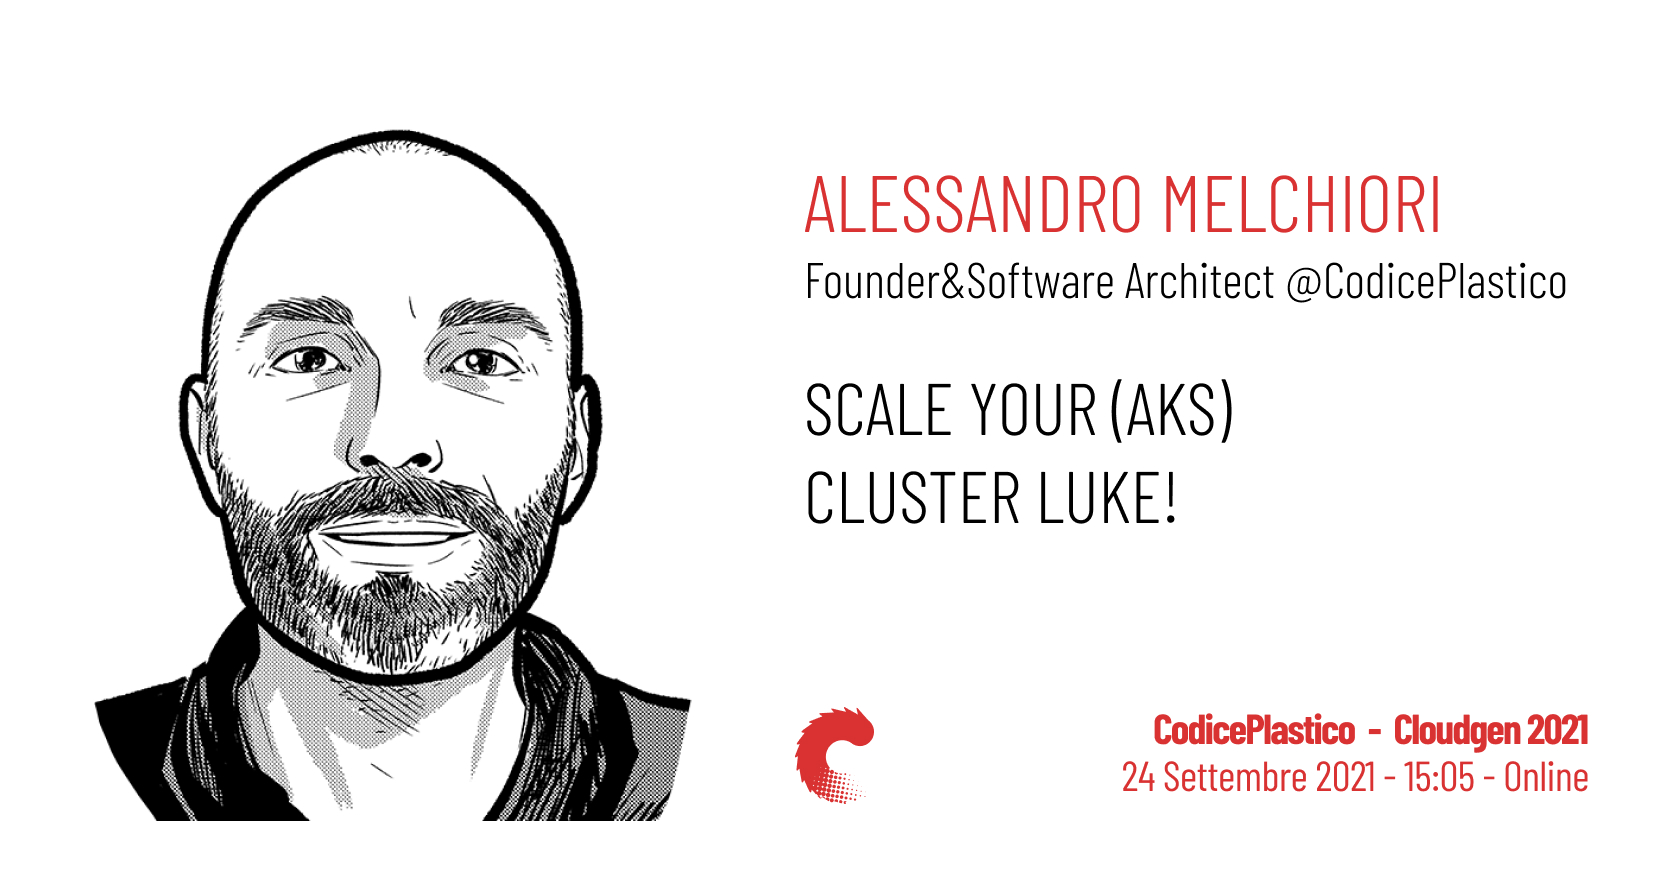
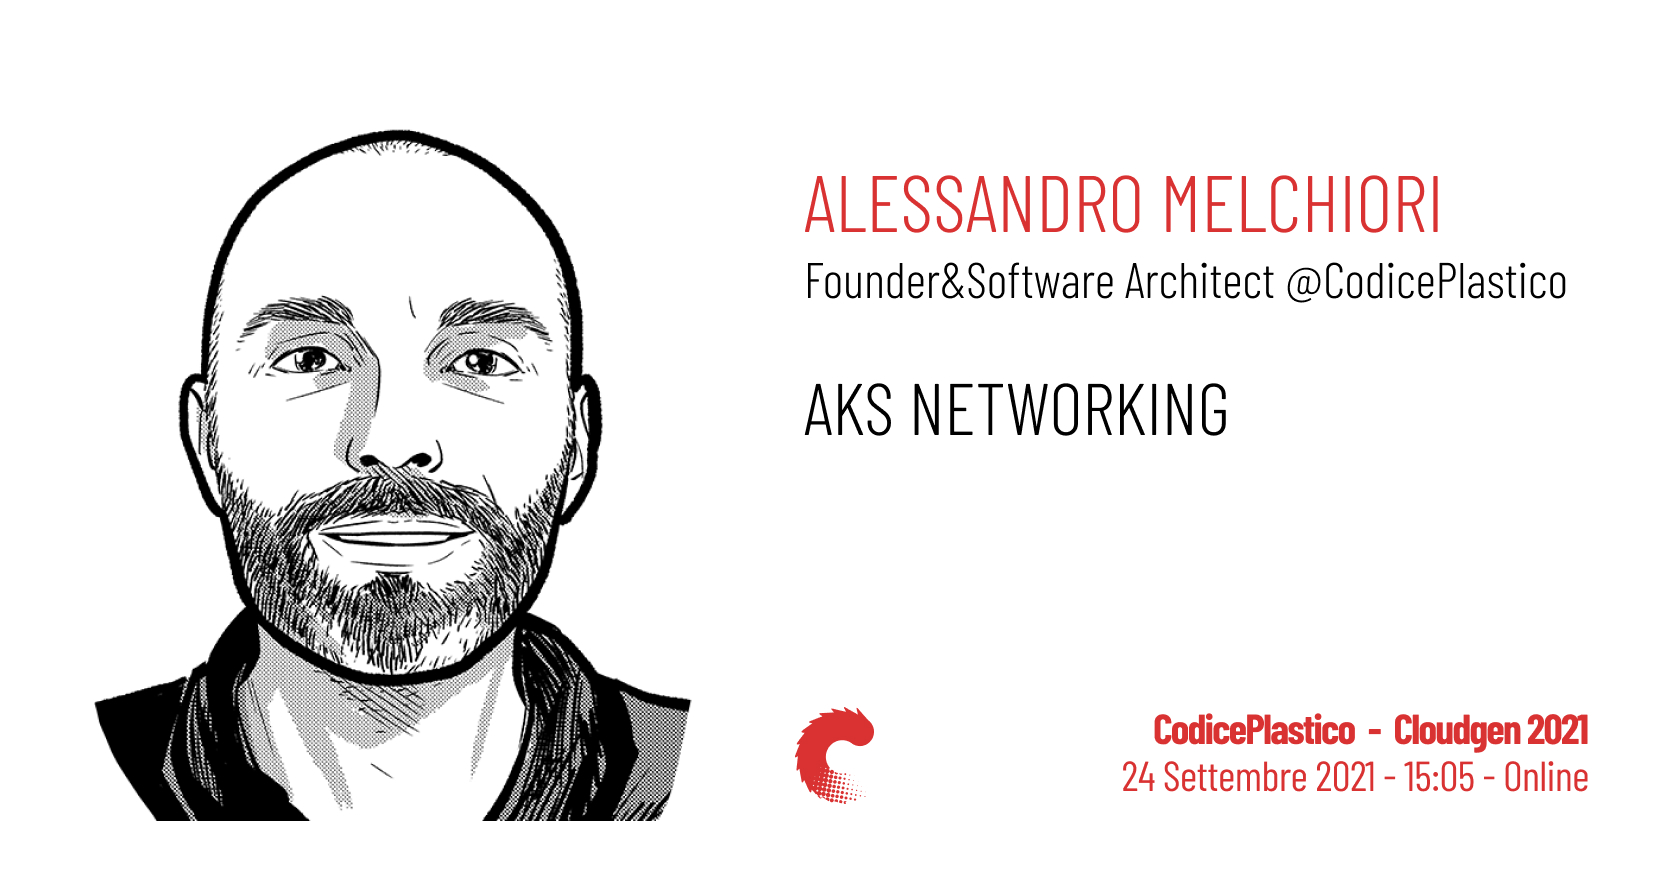
Aggiornamento Titolo talk cloudgen

Changed region(s): [[0.4676, 0.4345, 0.7482, 0.5276], [0.4676, 0.5276, 0.6859, 0.6207]]

diff --git a/_events/20210924-cloudgen-scale-your-aks-luke.md b/_events/20210924-cloudgen-scale-your-aks-luke.md
@@ -1,7 +1,7 @@
 ---
 layout: event
 title: "Cloudgen 2021"
-talk-title: "Scale your (AKS) cluster Luke!"
+talk-title: "AKS networking"
 event-date-start: 2021-09-24 15:05:00
 talk-info-track: 'Room Two'
 location: Online
@@ -16,6 +16,7 @@ author: [ale]
 
 ---
 ## Abstract
-Hai rilasciato la tua soluzione su Kubernetes, e, come nei tuoi sogni piu' belli, sta avendo successo. Molto bene!
-Per non esagerare, pero', hai definito un cluster con due soli nodi, giusto per avere un po' di "ridondanza". Ora che i due nodi sono a "tappo" che si fa?
-In questa sessione vedremo quali possibilita', piu' o meno automatiche, abbiamo con AKS per risolvere queste situazione
+Ti sei sempre chiesto come funziona il networking su k8s e nello specifico su AKS?
+A cosa fa riferimento l'acronimo CNI? Come funzionano le network policy di Calico?
+Bhe, forse, questa è la sessione che fa per te.
+
